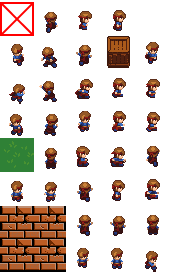
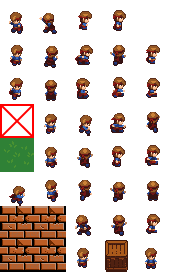
Added a box. Updated the atlas with the box texture. Updated the CollisionDetectionSystem to handle two dynamic entities.

diff --git a/core/src/com/sad/function/game/Game2.java b/core/src/com/sad/function/game/Game2.java
@@ -1,11 +1,11 @@
 package com.sad.function.game;
 
-import com.artemis.managers.TagManager;
-import com.sad.function.components.*;
 import com.artemis.*;
+import com.artemis.managers.TagManager;
 import com.badlogic.gdx.Gdx;
 import com.badlogic.gdx.graphics.Camera;
 import com.badlogic.gdx.graphics.OrthographicCamera;
+import com.sad.function.components.*;
 import com.sad.function.factory.TileFactory;
 import com.sad.function.factory.WallEntityFactory;
 import com.sad.function.manager.ResourceManager;
@@ -22,9 +22,11 @@ public class Game2 extends BaseGame {
     private TileFactory tileFactory;
     private WallEntityFactory wallFactory;
 
+    private ResourceManager resourceManager;
     @Override
     public void create() {
-        ResourceManager resourceManager = new ResourceManager();
+        resourceManager = new ResourceManager();
+
         setupCamera();
 
         WorldConfiguration config = new WorldConfigurationBuilder()
@@ -65,7 +67,6 @@ public class Game2 extends BaseGame {
         world.getEntity(player).getComponent(Position.class).x = 10;
         Dimension dim = world.getEntity(player).getComponent(Dimension.class);
         world.getMapper(Collidable.class).create(player).isStatic = false;
-        world.getEntity(player).getComponent(Collidable.class).collisionGroup = Collidable.CollisionGroup.PLAYER;
 
         world.getEntity(player).getComponent(Layer.class).layer = Layer.RENDERABLE_LAYER.DEFAULT;
 
@@ -74,12 +75,13 @@ public class Game2 extends BaseGame {
 
 
         createTiles(100, 100);
-        createBox();
+        createBox(150,150);
+        createBox(190,190);
 
         world.getSystem(TagManager.class).register("PLAYER", player);
     }
 
-    private void createBox() {
+    private void createBox(float x, float y) {
         Archetype boxArchetype = new ArchetypeBuilder()
                 .add(Position.class)
                 .add(TextureComponent.class)
@@ -90,9 +92,10 @@ public class Game2 extends BaseGame {
 
         int box = world.create(boxArchetype);
 
-        world.getMapper(Position.class).create(box).setX(150).setY(150);
+        world.getMapper(TextureComponent.class).create(box).resourceName = "box";
+        world.getMapper(Position.class).create(box).setX(x).setY(y);
         world.getMapper(Layer.class).create(box).layer = Layer.RENDERABLE_LAYER.DEFAULT;
-        world.getMapper(Collidable.class).create(box).isStatic = false;
+        world.getMapper(Collidable.class).create(box).setIsState(false).setHeight(32f).setWidth(32f);
         world.getMapper(Dimension.class).create(box).setDimensions(32f,32f);
     }
 
@@ -123,7 +126,6 @@ public class Game2 extends BaseGame {
 
     @Override
     public void render() {
-
         world.setDelta(Gdx.graphics.getDeltaTime());
         world.process();
 
@@ -132,6 +134,6 @@ public class Game2 extends BaseGame {
 
     @Override
     public void dispose() {
-
+        resourceManager.dispose();
     }
 }

diff --git a/core/src/com/sad/function/system/CollisionDetectionSystem.java b/core/src/com/sad/function/system/CollisionDetectionSystem.java
@@ -44,19 +44,22 @@ public class CollisionDetectionSystem extends BaseEntitySystem {
                     break;
                 }
                 if (boxesAreColliding(e1, e2, penetration)) {
-                    //Apply the penetration?
-                    //Figure out who, if anybody is static.
                     //TODO Only two cases: 1. A single entity is non-static. 2. Both entities are non-static.
-
                     //Both are dynamic
                     if (!mCollidable.create(e1).isStatic && !mCollidable.create(e2).isStatic) {
-
+                        logger.info("Both are dynamic. Need to handle this case.");
                         //Split the penetration vector.
-                        mPosition.create(e1).x -= penetration.x;
-                        mPosition.create(e1).y -= penetration.y;
-                    } else {
+                        mPosition.create(e1).x -= penetration.x / 2f;
+                        mPosition.create(e1).y -= penetration.y / 2f;
+
+                        mPosition.create(e2).x += penetration.x / 2f;
+                        mPosition.create(e2).y += penetration.y / 2f;
+
+                    } else { //Only one is dynamic.
                         //Figure out which one is dynamic.
                         int dynamic = mCollidable.create(e1).isStatic ? e2 : e1; //if a is static use b, otherwise just use a.
+
+                        //TODO Alert whomever is dynamic with the event.
 
                         mPosition.create(dynamic).x -= penetration.x;
                         mPosition.create(dynamic).y -= penetration.y;
@@ -135,5 +138,5 @@ public class CollisionDetectionSystem extends BaseEntitySystem {
         public int entityCollidedWith;
         public Vector2 penetrationVector;
     }
-    
+
 }

diff --git a/core/src/com/sad/function/components/Collidable.java b/core/src/com/sad/function/components/Collidable.java
@@ -9,7 +9,6 @@ import com.artemis.utils.IntBag;
 public class Collidable extends Component {
     public float width = 32f;
     public float height = 16f;
-    public CollisionGroup collisionGroup = CollisionGroup.STATIC;
 
     public boolean isStatic = false;                //Used to detect only moving objects.
     public IntBag collidedWith = new IntBag();
@@ -19,8 +18,18 @@ public class Collidable extends Component {
         this.height = height;
     }
 
-    public enum CollisionGroup {
-        PLAYER,
-        STATIC
+    public Collidable setHeight(float height) {
+        this.height = height;
+        return this;
+    }
+
+    public Collidable setWidth(float width) {
+        this.width = width;
+        return this;
+    }
+
+    public Collidable setIsState(boolean isStatic) {
+        this.isStatic = isStatic;
+        return this;
     }
 }

diff --git a/core/src/com/sad/function/system/RenderingSystem.java b/core/src/com/sad/function/system/RenderingSystem.java
@@ -101,7 +101,7 @@ public class RenderingSystem extends BaseEntitySystem {
     @Override
     protected void processSystem() {
 
-        Gdx.gl.glClearColor(1, 0, 0, 1);
+        Gdx.gl.glClearColor(100f/255f, 149f/255f, 237f/255f, 1);
         Gdx.gl.glClear(GL20.GL_COLOR_BUFFER_BIT);
 
         camera.update();

diff --git a/core/src/com/sad/function/system/NarrowSpacialManager.java b/core/src/com/sad/function/system/NarrowSpacialManager.java
@@ -30,9 +30,4 @@ class NarrowSpacialManager {
 
         return md;
     }
-
-//    public boolean areCollidint(float aX, float aY, float aWidth, float aHeight, float bX, float bY, float bWidth, float bHeight, Vector2 penetration) {
-//        Rectangle minkowski;
-//
-//    }
 }
